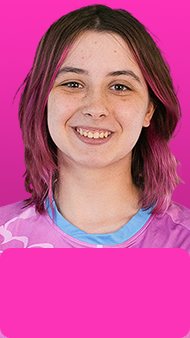
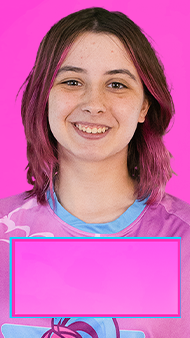
cambios
-Nombres
-Stats
-Marcador

diff --git a/src/components/Graficos.vue b/src/components/Graficos.vue
@@ -19,13 +19,18 @@
                 <!-- <div class="text-3xl text-red-500 mr-4">RJO</div> -->
               </div>
             </div>
-            <div class="w-[75px] h-[50px] azul absolute top-[42px]" id="equipoIzquierda"></div>
+            <div class="w-[75px] h-[50px]  absolute top-[42px]" id="equipoIzquierda">
+              <img :src="'../../img/izq/'+equipoIzq.data.fondo+'_marcador.png'">
+            </div>
             <div class="bg-white text-xl text-center w-[80px] h-[30px] absolute top-[82px] left-[127px]" id="crono">
               <vue-countdown :time="duracion*60*1000" v-slot="{minutes, seconds}">
                 {{ String(minutes).padStart(2,'0') }}:{{ String(seconds).padStart(2,'0') }}
               </vue-countdown>
             </div>
-            <div class="w-[75px] h-[50px] rojo absolute top-[42px] left-[260px]" id="equipoDerecha"></div>
+            <div class="w-[75px] h-[50px] absolute top-[42px] left-[260px]" id="equipoDerecha">
+              <img :src="'../../img/derecha/'+equipoDer.data.fondo+'_marcador.png'">
+
+            </div>
             
           </div>
         </div>
@@ -76,27 +81,53 @@
     </transition>
 
     <transition name="nombreIzq">
-      <div v-if="nJugadorIzq" class="opacity-0" id="nIzq">
-        <div class="w-[245px] h-[90px] absolute top-[875px] left-[115px] bg-white">
-          <div class="grid h-full Anton capitalize justify-items-end px-4 py-2">
-            <div class="text-3xl"> {{ improvisador.nombre }} </div>
-            <div class="text-2xl text-blue-600"> {{ improvisador.apellidos }} </div>
+      <div v-if="nJugadorIzq" class="opacity-0  w-[245px] h-[90px] absolute top-[875px] left-[115px]" id="nIzq">
+        <div class="relative inline-block">
+          <img :src="'../../img/izq/'+equipoIzq.data.fondo+'_nombre.png'">
+          <div class="absolute bottom-0 ml-2 uppercase Antonio w-[245px] h-[90px] flex flex-col">
+            <div class="text-3xl font-extrabold text-white h-fit mt-4"> {{ improvisadorIzq.name }} </div>
+            <div class="text-xl text-white h-fit"> {{ improvisadorIzq.apellidos }} </div>
           </div>
-        </div>
-        <div class="bg-blue-600 w-[162px] h-[90px] absolute top-[895px] left-[33px]">
         </div>
       </div>
     </transition>
 
     <transition name="nombreDer">
-      <div v-if="nJugadorDer" class="opacity-0" id="nDer">
-        <div class="w-[245px] h-[90px] absolute top-[875px] left-[1560px] bg-white">
-          <div class="flex flex-col h-full Anton capitalize  px-4 py-2">
-            <div class="text-3xl"> {{ improvisador.nombre }} </div>
-            <div class="text-2xl text-red-600"> {{ improvisador.apellidos }} </div>
+      <div v-if="nJugadorDer" class="opacity-0 w-[245px] h-[90px] absolute top-[875px] left-[1560px]" id="nDer">
+        <div class="relative inline-block">
+          <img :src="'../../img/derecha/'+equipoDer.data.fondo+'_nombre.png'">
+          <div class="absolute bottom-0 uppercase Antonio w-[245px] h-[90px] flex justify-end">
+            <div class="flex flex-col mr-2">
+              <div class="text-3xl font-extrabold text-white w-fit h-fit mt-4 "> {{ improvisadorDer.name }} </div>
+              <div class="text-xl text-white h-fit flex justify-end"> {{ improvisadorDer.apellidos }} </div>
+            </div>
           </div>
         </div>
-        <div class="bg-red-600 w-[162px] h-[90px] absolute top-[895px] left-[1724px]">
+      </div>
+    </transition>
+
+    <transition name="nombreIzq">
+      <div v-if="perIzq" class="opacity-0  w-[245px] h-[90px] absolute top-[875px] left-[115px]" id="pIzq">
+        <div class="relative inline-block">
+          <img :src="'../../img/izq/lliga.png'">
+          <div class="absolute bottom-0 ml-2 uppercase Antonio w-[245px] h-[90px] flex flex-col">
+            <div class="text-3xl font-extrabold text-white h-fit mt-4"> {{ personaIzq.name }} </div>
+            <div class="text-xl text-white h-fit"> {{ personaIzq.apellidos }} </div>
+          </div>
+        </div>
+      </div>
+    </transition>
+
+    <transition name="nombreDer">
+      <div v-if="perDer" class="opacity-0 w-[245px] h-[90px] absolute top-[875px] left-[1560px]" id="pDer">
+        <div class="relative inline-block">
+          <img :src="'../../img/derecha/lliga.png'">
+          <div class="absolute bottom-0 uppercase Antonio w-[245px] h-[90px] flex justify-end">
+            <div class="flex flex-col mr-2">
+              <div class="text-3xl font-extrabold text-white w-fit h-fit mt-4 "> {{ personaDer.name }} </div>
+              <div class="text-xl text-white h-fit flex justify-end"> {{ personaDer.apellidos }} </div>
+            </div>
+          </div>
         </div>
       </div>
     </transition>
@@ -126,6 +157,36 @@
           </div>
           <div class="Anton">
             <VueUiRadar :config="configRadar" :dataset="datasetIzq"/>
+          </div>
+        </div>
+      </div>
+    </transition>
+    <transition name="statsDer">
+      <div  v-if="statsDer" id="estadisticasDer" class="w-[538px] h-[697px] absolute top-[175px] left-[1265px] flex flex-col opacity-0">
+        <div class="h-[114px] w-full uppercase flex items-center justify-center">
+          <div class="text-white text-7xl Anton">{{ improvisadorDer.name + " " + improvisadorDer.apellidos }}</div>
+        </div>
+        <div class="">
+          <div class="Anton flex flex-col mr-4 ml-4 text-5xl text-white uppercase">
+            <div class="flex justify-between mt-4">
+              <p>ORIGEN:</p>
+              <p>{{ improvisadorDer.pueblo }}</p>
+            </div>
+            <div class="flex justify-between mt-4">
+              <p>EDAD:</p>
+              <p>{{ improvisadorDer.edad }}</p>
+            </div>
+            <div class="flex justify-between mt-4">
+              <p>DEBUT:</p>
+              <p>{{ improvisadorDer.debut }}</p>
+            </div>
+            <div class="flex justify-between mt-4">
+              <p>PROMEDIO:</p>
+              <p><VueUiRating :config="configStar" :dataset="ratingRight"/></p>
+            </div>
+          </div>
+          <div class="Anton">
+            <VueUiRadar :config="configRadar" :dataset="datasetDer"/>
           </div>
         </div>
       </div>
@@ -228,9 +289,17 @@
       <n-tab-pane name="Jugadores" tab="Jugadores">
         <div class="flex flex-col w-full">
           <div class="flex">
-            <n-input v-model:value="nombre"  type="text" placeholder="Nombre"/>
-            <n-input v-model:value="apellidos" type="text" placeholder="Apellidos"/>
-            <button @click="nPresentador = !nPresentador" class="bg-slate-300 rounded p-2">IN/OUT</button>
+            <n-input v-model:value="personaIzq.name"  type="text" placeholder="Nombre"/>
+            <n-input v-model:value="personaIzq.apellidos" type="text" placeholder="Apellidos"/>
+            <button @click="showPerIzq" class="bg-slate-300 rounded p-2">IN/OUT IZQ</button>
+          </div>
+          <div class="flex">
+            <n-input v-model:value="personaDer.name"  type="text" placeholder="Nombre"/>
+            <n-input v-model:value="personaDer.apellidos" type="text" placeholder="Apellidos"/>
+            <button @click="showPerDer" class="bg-slate-300 rounded p-2">IN/OUT DER</button>
+          </div>
+          <div >
+            <button @click="showPersonas" class="bg-slate-300 rounded p-2">IN/OUT Ambos</button>
           </div>
           <div v-if="jugadoresIzq.length == 0" class="flex">
             <p class="text-3xl">Equipo IZQ</p>
@@ -297,6 +366,8 @@ export default{
   setup(){
     const improvisadorIzq = ref({})
     const improvisadorDer = ref({})
+    const personaIzq = ref({})
+    const personaDer = ref({})
     const tipo = ref()
     const titulo = ref()
     const jugadores = ref()
@@ -310,8 +381,10 @@ export default{
     const texto = ref(false) 
     const nJugadorIzq = ref(false) 
     const nJugadorDer = ref(false) 
-    const nPresentador = ref(false) 
+    const perIzq = ref(false) 
+    const perDer = ref(false) 
     const statsIzq = ref(false)
+    const statsDer = ref(false)
     const imageIzq = ref("")
     const equipoIzq = ref({puntos: 0, faltas: 0})
     const equipoDer = ref({puntos: 0, faltas: 0})
@@ -482,6 +555,41 @@ export default{
         },
       ]
     })
+    const datasetDer = ref({
+      categories: [{name: "stats", color: "#42d392"}],
+      series:[
+        {
+          name: "TECNICA",
+          values: [95],
+          color: "",
+          target: 100
+        },
+        {
+          name: "DIBUJO",
+          values: [95],
+          color: "",
+          target: 100
+        },
+        {
+          name: "ORIGINALIDAD",
+          values: [95],
+          color: "",
+          target: 100
+        },
+        {
+          name: "COMEDIA",
+          values: [95],
+          color: "",
+          target: 100
+        },
+        {
+          name: "RECURSOS",
+          values: [95],
+          color: "",
+          target: 100
+        },
+      ]
+    })
     const configStar = ref(
       {
         "type":"star",
@@ -545,6 +653,7 @@ export default{
       }
     )
     const ratingLeft = ref({rating: 0.0})
+    const ratingRight = ref({rating: 0.0})
     const clasi = ref([])
     const clasificacion = ref(false)
     const jIzq = ref([])
@@ -558,7 +667,6 @@ export default{
       tipos,
       nJugadorIzq,
       nJugadorDer,
-      nPresentador,
       nombre,
       apellidos,
       numJug,
@@ -571,24 +679,45 @@ export default{
       categoria,
       imageUrl,
       texto,
-      jugadoresIzq,
-      jugadoresDer,
-      improvisadorIzq,
-      improvisadorDer,
-      statsIzq,
+      jugadoresIzq,jugadoresDer,
+      improvisadorIzq,improvisadorDer,
+      statsIzq, statsDer,
       equipos,
-      datasetIzq,
+      datasetIzq, datasetDer,
       configRadar,
       configStar,
-      ratingLeft, 
+      ratingLeft, ratingRight,
       imageIzq,
       clasi,
       clasificacion,
       alineacionIzq,
-      jIzq
+      jIzq, 
+      personaIzq,personaDer, perIzq, perDer
     }
   },
   methods:{
+    showPerDer(){
+      setTimeout(function(){ 
+        document.getElementById("pDer").style.opacity = 100
+       }, 200);
+      this.perDer = !this.perDer 
+    },
+    showPerIzq(){
+      setTimeout(function(){ 
+        document.getElementById("pIzq").style.opacity = 100
+       }, 200);
+      this.perIzq = !this.perIzq
+    },
+    showPersonas(){
+      setTimeout(function(){ 
+      document.getElementById("pIzq").style.opacity = 100
+      }, 200);
+      setTimeout(function(){ 
+      document.getElementById("pDer").style.opacity = 100
+      }, 200);
+      this.perDer = !this.perDer 
+      this.perIzq = !this.perIzq
+    },
     showAlineacionIzq(){
       debugger
     },
@@ -630,13 +759,34 @@ export default{
        }, 200);
       this.statsIzq = !this.statsIzq
     },
-    statDer(improvisador, pos){
+    async statDer(improvisador, pos){
+      let url = ""
+      if(pos){
+        this.datasetDer.categories[0].color = this.equipoIzq.data.color
+        url =  this.equipoIzq.data.fondo
+      }else{
+        this.datasetDer.categories[0].color = this.equipoDer.data.color
+        url = this.equipoDer.data.fondo
+      }
       this.improvisadorDer.name = improvisador.name
       this.improvisadorDer.apellidos = improvisador.apellidos
       this.improvisadorDer.pueblo = improvisador.pueblo
       this.improvisadorDer.debut = improvisador.debut
       this.improvisadorDer.edad = improvisador.edad
       this.improvisadorDer.promedio = improvisador.promedio
+      let number =  parseFloat(improvisador.promedio)
+      this.ratingRight.rating = number
+      await axios.get(`http://lligaimproback.test/api/stats/${improvisador.id}`)
+      .then(response => {
+        for(let i = 0; i< response.data.length; i++){
+          this.datasetDer.series[i].values[0] = response.data[i];
+        }
+      })
+      setTimeout(function(){ 
+        document.getElementById("estadisticasDer").style.opacity = 100
+        document.getElementById("estadisticasDer").style.backgroundImage = `url('../../img/stats/${url}.png')`;
+       }, 200);
+      this.statsDer = !this.statsDer
     },
     async getImprovisadores(){
       await axios.get(`http://lligaimproback.test/api/improvisadores/${this.equipoIzq.data.id}`)
@@ -655,14 +805,14 @@ export default{
       setTimeout(function(){ 
         document.getElementById("nIzq").style.opacity = 100
        }, 200);
-      this.improvisador = this.jugadoresIzq[pos];
+      this.improvisadorIzq = pos;
       this.nJugadorIzq = !this.nJugadorIzq
     },
     playerNameDer(pos){
       setTimeout(function(){ 
         document.getElementById("nDer").style.opacity = 100
        }, 200);
-      this.improvisador = this.jugadoresDer[pos];
+      this.improvisadorDer = pos;
       this.nJugadorDer = !this.nJugadorDer
     },
     inOutTarjeta(){
@@ -880,6 +1030,12 @@ export default{
 }
 .nombreDer-leave-to {
 	animation: slide-in-right 0.5s cubic-bezier(0.250, 0.460, 0.450, 0.940) both reverse;
+}
+.statsDer-enter-to {
+	animation: slide-in-right 1s cubic-bezier(0.250, 0.460, 0.450, 0.940) both;
+}
+.statsDer-leave-to {
+	animation: slide-in-right 1s cubic-bezier(0.250, 0.460, 0.450, 0.940) both reverse;
 }
 
 @keyframes slide-in-right {
